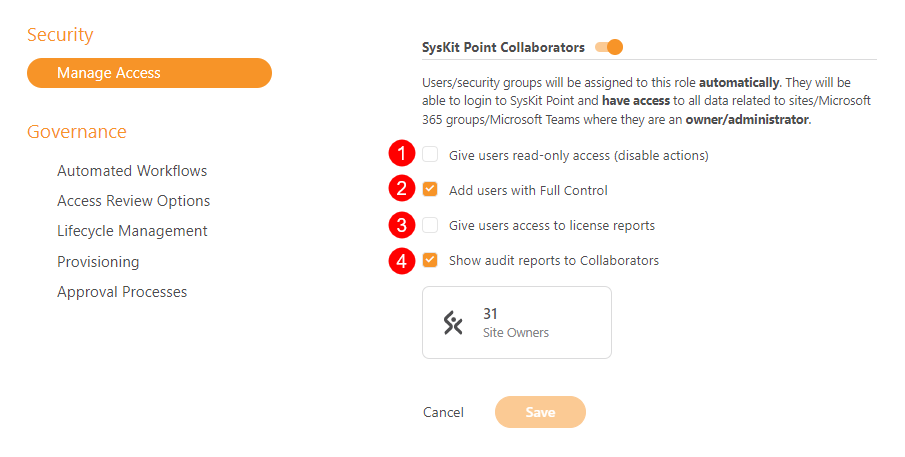
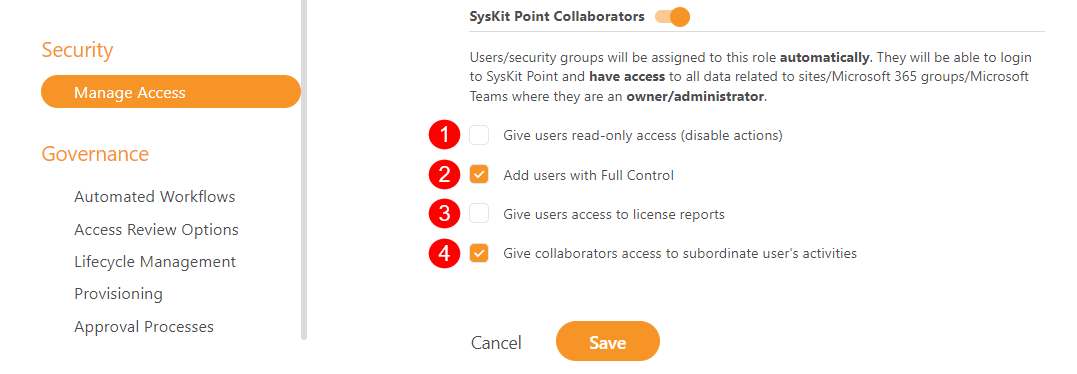
changes to collaborators in access article

diff --git a/configuration/enable-role-based-access.md b/configuration/enable-role-based-access.md
@@ -55,7 +55,7 @@ Here, you will find:
 * **All SysKit Point roles (2)** in a separate section
 * **Toggle (3)** that enables a particular role; by default, all roles except the SysKit Point Admin role are initially disabled 
 * **Tile with number of assigned users (4)** for each role; the total number of users with the assigned role is displayed in the tile
-* **Assing to role (5)** button enabling you to add a user to a role easily
+* **Assign to role (5)** button enabling you to add a user to a role easily
 * **Save (6)** button to save changes
 
 ![Settings - Manage Access](../.gitbook/assets/enable-role-based-access_manage-access.png)
@@ -126,7 +126,7 @@ Additional options are available when the SysKit Point Collaborators role is ena
 * **Give users read-only access (disable actions) (1)**; when enabled, Collaborators cannot run actions in SysKit Point
 * **Add users with Full Control (2)**; when enabled, users with Full Control permissions on workspaces will be assigned with the Collaborators role in SysKit Point
 * **Give users access to license reports (3)**; when enabled, Collaborators can access License reports
-* **Show audit reports to Collaborators (4)**; when enabled, Collaborators can access Audit log reports in SysKit Point for workspaces and users they manage
+* **Give Collaborators access to subordinate user's activities (4)**; when enabled, Collaborators will be able to view the OneDrive tile, the Analytics & Usage tile, Audit Log Reports when accessing User details or Workspaces they manage
 
 ![Collaborators - Options](../.gitbook/assets/enable-role-based-access_collaborator-options.png)
 
